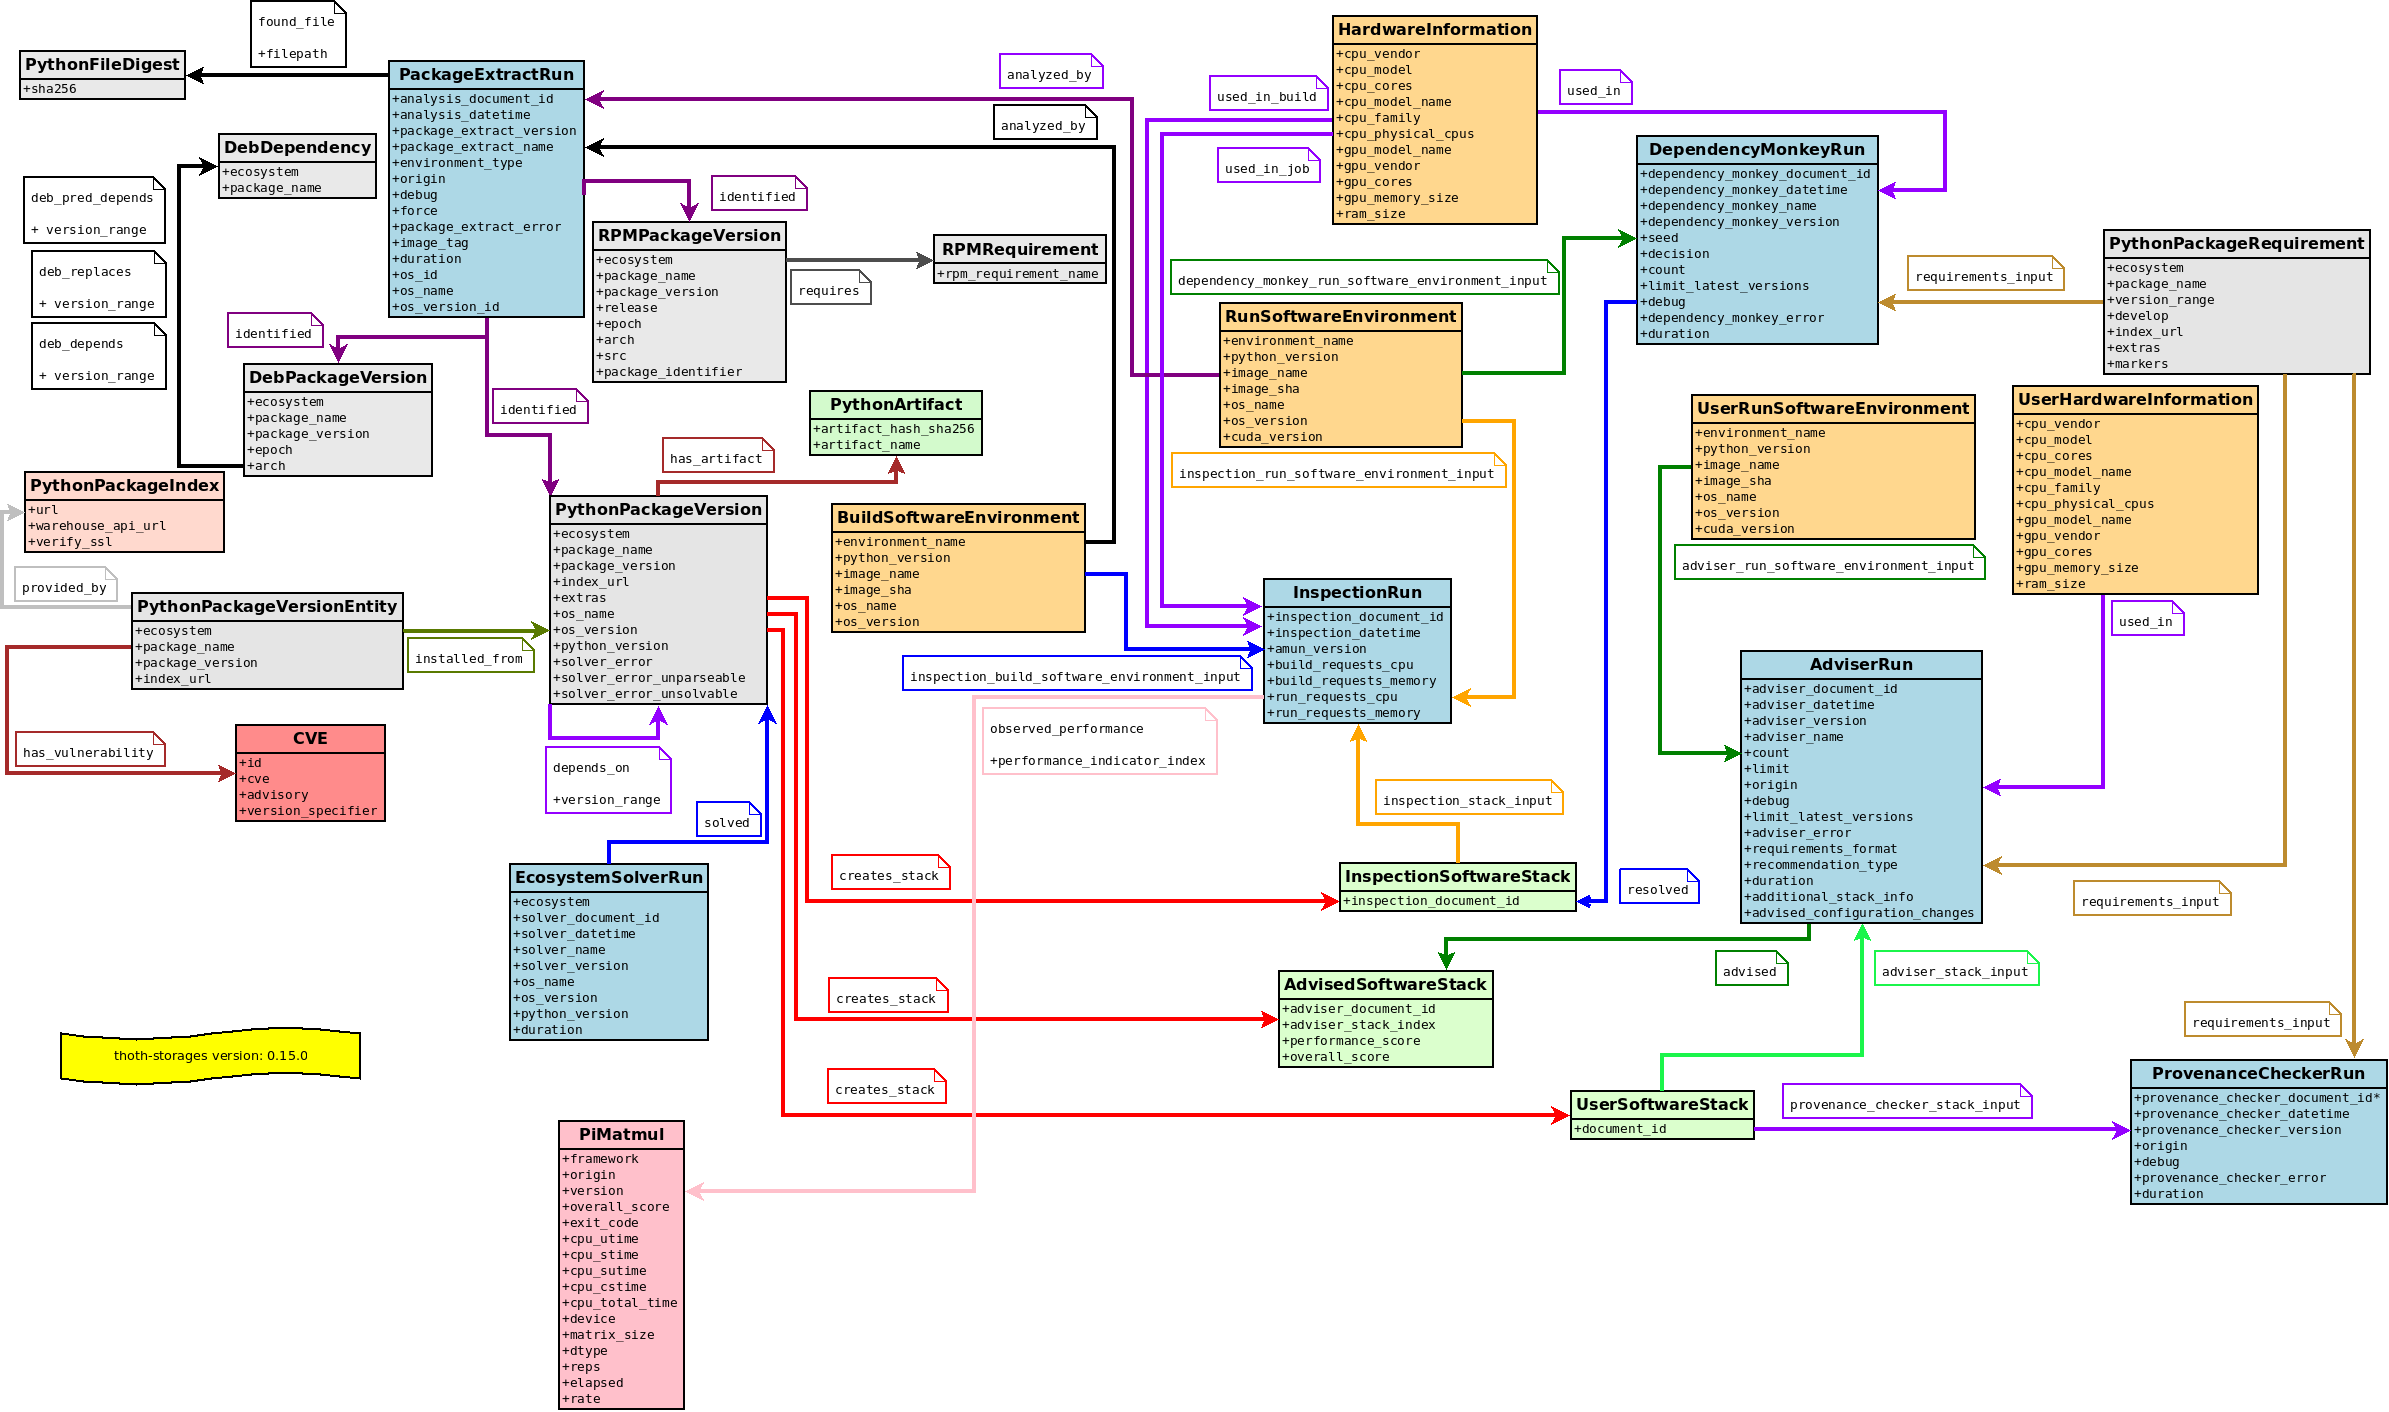
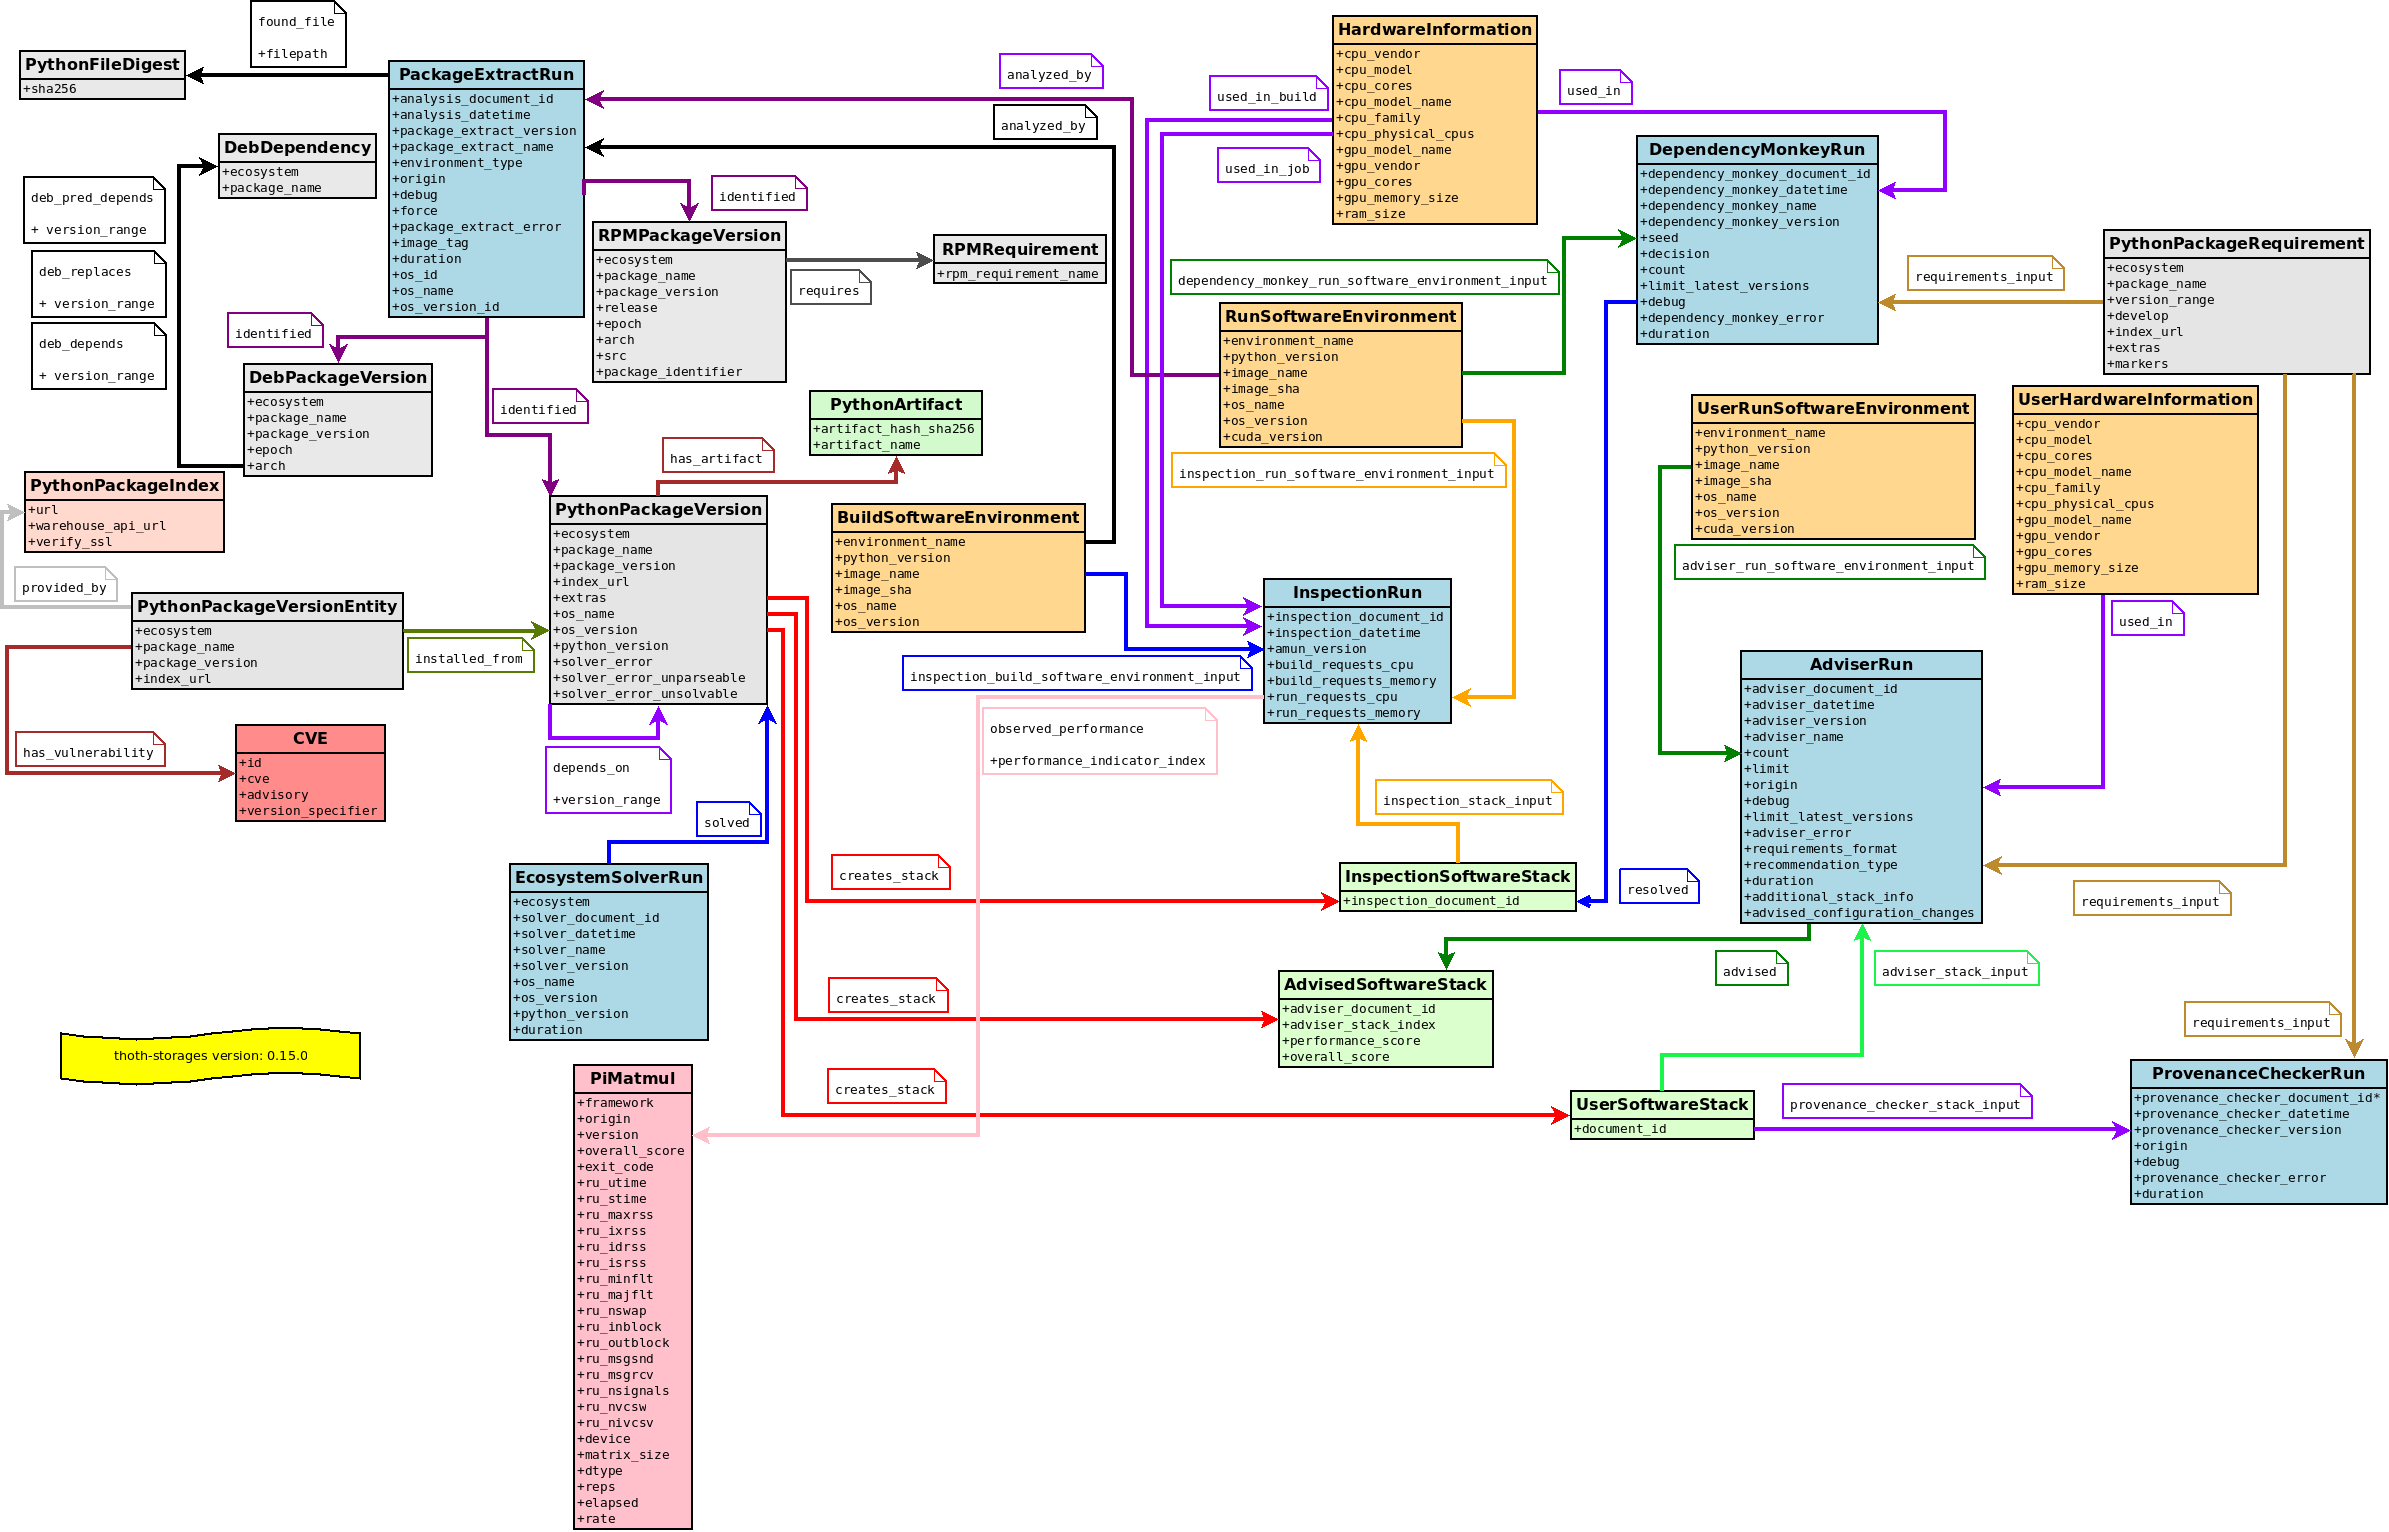
Update schema based on updates to performance indicators

Changed region(s): [[0.0, 0.0, 1.0, 1.0], [0.0, 0.6544, 0.1549, 0.779], [0.8363, 0.4986, 0.8673, 0.5297]]

diff --git a/thoth/storages/graph/performance.py b/thoth/storages/graph/performance.py
@@ -66,12 +66,24 @@ class PerformanceIndicatorBase(VertexBase):
     # The actual exit code of the performance indicator.
     exit_code = model_property(type=int)
 
-    # Time spent on CPU.
-    cpu_utime = model_property(type=float)
-    cpu_stime = model_property(type=float)
-    cpu_cutime = model_property(type=float)
-    cpu_cstime = model_property(type=float)
-    cpu_total_time = model_property(type=float)
+    # Process statistics:
+    #   https://docs.python.org/3/library/resource.html#resource.getrusage
+    ru_utime = model_property(type=float)
+    ru_stime = model_property(type=float)
+    ru_maxrss = model_property(type=int)
+    ru_ixrss = model_property(type=int)
+    ru_idrss = model_property(type=int)
+    ru_isrss = model_property(type=int)
+    ru_minflt = model_property(type=int)
+    ru_majflt = model_property(type=int)
+    ru_nswap = model_property(type=int)
+    ru_inblock = model_property(type=int)
+    ru_oublock = model_property(type=int)
+    ru_msgsnd = model_property(type=int)
+    ru_msgrcv = model_property(type=int)
+    ru_nsignals = model_property(type=int)
+    ru_nvcsw = model_property(type=int)
+    ru_nivcsw = model_property(type=int)
 
     @classmethod
     def create_from_report(cls, inspection_document: dict) -> "PerformanceIndicatorBase":
@@ -93,11 +105,22 @@ class PerformanceIndicatorBase(VertexBase):
             or inspection_document["job_log"]["script_sha256"],
             overall_score=overall_score,
             exit_code=inspection_document["job_log"].get("exit_code"),
-            cpu_utime=inspection_document["job_log"].get("utime"),
-            cpu_stime=inspection_document["job_log"].get("stime"),
-            cpu_cutime=inspection_document["job_log"].get("cutime"),
-            cpu_cstime=inspection_document["job_log"].get("cstime"),
-            cpu_total_time=inspection_document["job_log"].get("total_time"),
+            ru_utime=inspection_document["job_log"].get("usage").get("ru_utime"),
+            ru_stime=inspection_document["job_log"].get("usage").get("ru_stime"),
+            ru_maxrss=inspection_document["job_log"].get("usage").get("ru_maxrss"),
+            ru_ixrss=inspection_document["job_log"].get("usage").get("ru_ixrss"),
+            ru_idrss=inspection_document["job_log"].get("usage").get("ru_idrss"),
+            ru_isrss=inspection_document["job_log"].get("usage").get("ru_isrss"),
+            ru_minflt=inspection_document["job_log"].get("usage").get("ru_minflt"),
+            ru_majflt=inspection_document["job_log"].get("usage").get("ru_majflt"),
+            ru_nswap=inspection_document["job_log"].get("usage").get("ru_nswap"),
+            ru_inblock=inspection_document["job_log"].get("usage").get("ru_inblock"),
+            ru_oublock=inspection_document["job_log"].get("usage").get("ru_oublock"),
+            ru_msgsnd=inspection_document["job_log"].get("usage").get("ru_msgsnd"),
+            ru_msgrcv=inspection_document["job_log"].get("usage").get("ru_msgrcv"),
+            ru_nsignals=inspection_document["job_log"].get("usage").get("ru_nsignals"),
+            ru_nvcsw=inspection_document["job_log"].get("usage").get("ru_nvcsw"),
+            ru_nivcsw=inspection_document["job_log"].get("usage").get("ru_nivcsw"),
         )
 
         if cls.SCHEMA_PARAMETERS:
